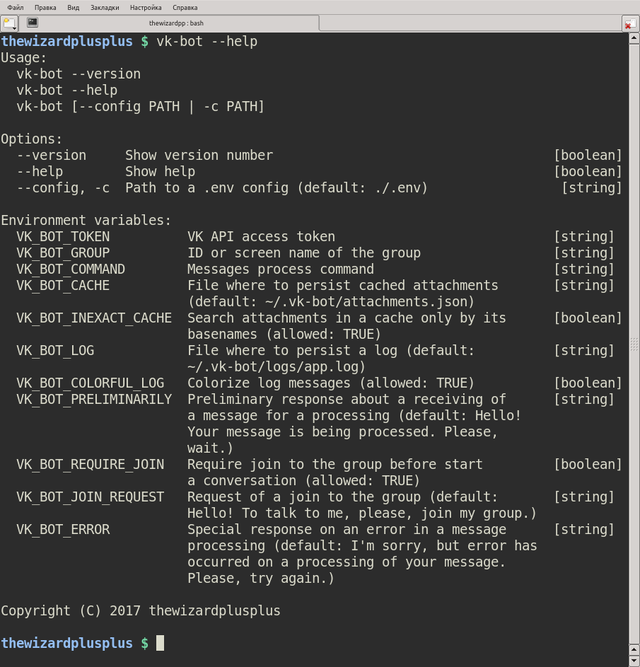
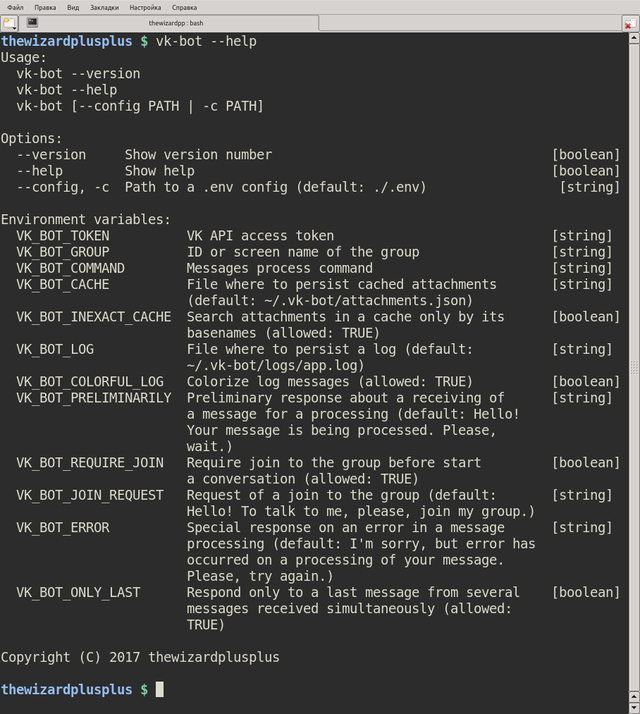
Issue #19: add the VK_BOT_ONLY_LAST environment variable

diff --git a/src/options.js b/src/options.js
@@ -30,6 +30,9 @@ const EPILOG =
                         processing (default: I'm sorry, but error has
                         occurred on a processing of your message.
                         Please, try again.)
+  VK_BOT_ONLY_LAST      Respond only to a last message from several    [boolean]
+                        messages received simultaneously (allowed:
+                        TRUE)
 
 Copyright (C) 2017 thewizardplusplus`
 export default function processOptions() {

diff --git a/readme.md b/readme.md
@@ -87,7 +87,8 @@ Environment variables:
 * `VK_BOT_PRELIMINARILY` &mdash; preliminary response about a receiving of a message for a processing (default: `Hello! Your message is being processed. Please, wait.`);
 * `VK_BOT_REQUIRE_JOIN` &mdash; require join to the group before start a conversation (allowed: `TRUE`);
 * `VK_BOT_JOIN_REQUEST` &mdash; request of a join to the group (default: `Hello! To talk to me, please, join my group.`);
-* `VK_BOT_ERROR` &mdash; special response on an error in a message processing (default: `I'm sorry, but error has occurred on a processing of your message. Please, try again.`).
+* `VK_BOT_ERROR` &mdash; special response on an error in a message processing (default: `I'm sorry, but error has occurred on a processing of your message. Please, try again.`);
+* `VK_BOT_ONLY_LAST` &mdash; respond only to a last message from several messages received simultaneously (allowed: `TRUE`).
 
 Environment variables can be specified in a `.env` config in the format:
 
